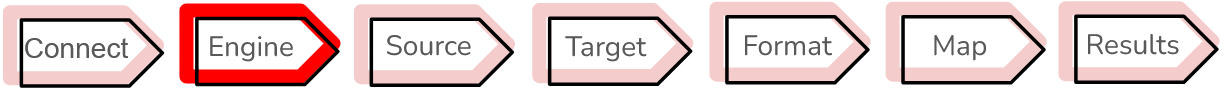
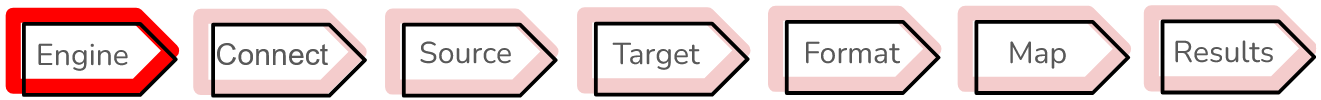
Bug bash changes

diff --git a/docs/Guides/loading-data/loading-data-wizard.md b/docs/Guides/loading-data/loading-data-wizard.md
@@ -22,28 +22,16 @@ A general workflow to load data using the **Load data** wizard is shown in the f
 The wizard also guides you through setting up an AWS connection. To use the wizard, you will need the uniform resource locator (URL) of an Amazon S3 bucket. If credentials are required to access the data that you want to load, you will also need an AWS Key ID and your AWS Secret Key. In most steps in the wizard, you can view the SQL commands associated with your selections in the **Load data** main window by selecting **Show SQL script** in the left navigation pane at the bottom of the window.
 
 To use the wizard, use the following steps:
-## Set up AWS connection
-<img src="../../assets/images/load_data_wizard_connect.png" alt="The first step in the wizard is to connect to AWS and specify an Amazon S3 bucket." width="700"/>
-<BR>
-1. Log into the **Firebolt Workspace**.
-2. Select the (+) icon from the left navigation pane next to **Databases**.
-3. Select **Load data** from the drop-down menu.
-4. Set up an AWS connection in the window that appears.
-    1. If you are using public data and no credentials are required to access it, provide the URL for your Amazon S3 bucket, and select **Next step**.
-    2. If credentials are required, Firebolt needs to provide this information to AWS in order to retrieve data on your behalf. Provide the URL for your Amazon S3 bucket, AWS Key ID, and AWS Secret Key. The following apply:
-        1. The AWS Key ID is an AWS access key that is associated with an AWS user or AWS IAM role. The AWS access key is a 20-character string such as ‘AKIAIOSFODNN7EXAMPLE’.
-        2. The AWS Secret Key is an AWS secret access key associated with the user or role associated with the AWS access key. The AWS secret access key is a 40-character string such as ‘wJalrXUtnFEMI/K7MDENG/bPxRfiCYEXAMPLEKEY’. For more information about these credentials, see [Create Access Key and Secret ID in AWS](creating-access-keys-aws.md).
-    3. If you aren’t ready to use your own data, you can use a Firebolt test dataset from the fictional company, [Ultra Fast Gaming Inc](https://help.firebolt.io/t/ultra-fast-gaming-firebolt-sample-dataset/250). Enter the following Amazon S3 bucket into Amazon S3 storage URL:
-`s3://firebolt-publishing-public/help_center_assets/firebolt_sample_dataset/`. The name of the data set is `levels.csv`.
-1. Select **Next step**.
    
 ## Select an engine
 <img src="../../assets/images/load_data_wizard_engine.png" alt="The next step in the wizard is to create an engine." width="700"/>
 <BR>
+
    Select an engine to load data. If the engine that you want to use already exists, select it from the dropdown list next to **Select engine for ingestion**. Otherwise, select **Create new engine** from the dropdown list, and do the following:
 
 1. Enter a name in the **New engine name** text box.
 2. Select an engine size from the drop-down list next to **Node type**. Consider the following when creating a new engine:
+
     1. If you are loading data and using Firebolt for the first time, use the smallest engine size (S) and a small dataset to try out Firebolt’s capabilities. Refer to the [Get Started](../getting-started.md) guide for more information.
     2. If you want to load larger datasets, and a S engine provides insufficient performance, Firebolt recommends **scaling out**, or adding more nodes, first, as shown in the following diagram.
     <BR>
@@ -53,12 +41,12 @@ To use the wizard, use the following steps:
 
     Small and medium engines are available for use right away. If you want to use a large or extra-large engine, reach out to support@firebolt.io. For more information, see [Sizing Engines](../../Guides/operate-engines/sizing-engines.md).
 
- 1. Select the number of compute nodes to use to load your data next to **Number of nodes**. A node is an individual compute unit within a compute cluster.
+ 3. Select the number of compute nodes to use to load your data next to **Number of nodes**. A node is an individual compute unit within a compute cluster.
 
    - Using more than one node allows Firebolt to load your data and perform operations on your data in parallel on multiple nodes within a single cluster, which can speed up the data loading process.
    - A higher number of nodes also means increased costs for compute resources. You can see the total cost per hour for your selection under Advanced settings, given in Firebolt Units (FBU). Each FBU is equivalent to $0.35 USD per hour. Find the right balance between cost and speed for your workload. You must use at least one node.
   
-2. Select the number of clusters next to **Number of clusters**. A cluster is a group of nodes that work together. The following apply:
+4. Select the number of clusters next to **Number of clusters**. A cluster is a group of nodes that work together. The following apply:
 
     - If you increase the number of clusters, you will add the number of compute nodes that you selected for each added cluster.
   
@@ -66,21 +54,42 @@ To use the wizard, use the following steps:
 
 3. Select the down arrow next to **Advanced settings** for more options for your engine including setting a time to stop the engine after a period of inactivity.
 
+
+## Set up AWS connection
+<img src="../../assets/images/load_data_wizard_connect.png" alt="The first step in the wizard is to connect to AWS and specify an Amazon S3 bucket." width="700"/>
+<BR>
+
+1. Log into the **Firebolt Workspace**.
+2. Select the (+) icon from the left navigation pane next to **Databases**.
+3. Select **Load data** from the drop-down menu.
+4. Set up an AWS connection in the window that appears.
+    1. If you are using public data and no credentials are required to access it, provide the URL for your Amazon S3 bucket, and select **Next step**.
+    2. If credentials are required, Firebolt needs to provide this information to AWS in order to retrieve data on your behalf. Provide the URL for your Amazon S3 bucket, AWS Key ID, and AWS Secret Key. The following apply:
+        1. The AWS Key ID is an AWS access key that is associated with an AWS user or AWS IAM role. The AWS access key is a 20-character string such as ‘AKIAIOSFODNN7EXAMPLE’.
+        2. The AWS Secret Key is an AWS secret access key associated with the user or role associated with the AWS access key. The AWS secret access key is a 40-character string such as ‘wJalrXUtnFEMI/K7MDENG/bPxRfiCYEXAMPLEKEY’. For more information about these credentials, see [Create Access Key and Secret ID in AWS](creating-access-keys-aws.md).
+    3. If you aren’t ready to use your own data, you can use a Firebolt test dataset from the fictional company, [Ultra Fast Gaming Inc](https://help.firebolt.io/t/ultra-fast-gaming-firebolt-sample-dataset/250). Enter the following Amazon S3 bucket into Amazon S3 storage URL:
+`s3://firebolt-publishing-public/help_center_assets/firebolt_sample_dataset/`. 
+5. Select **Next step**.
+
 ## Select data to ingest
 <img src="../../assets/images/load_data_wizard_source.png" alt="The next step in the wizard is to specify a data source." width="700"/>
 <BR>
+
 1. Select the data that you want to load. Firebolt’s **Load data** wizard currently supports files in both CSV and Parquet formats. The contents of your S3 bucket are shown automatically along with their object type, size, and when the object was last modified.
 2. Enter text or a [prefix](https://docs.aws.amazon.com/AmazonS3/latest/userguide/using-prefixes.html) into the search field above **FILE NAME** to filter the list of objects. You can enter either part of the object's name or the full prefix that it starts with.
-3. Toggle **Supported files** to filter the list to show only supported file formats. If you are using Firebolt’s test data set for this tutorial, select the box next to `levels.csv`.
-4. Select **Next step**.
+3. If you are using Firebolt's test data, select box next to `levels.csv`.
+3. Select **Next step**.
 
 ## Set up destination
 <img src="../../assets/images/load_data_wizard_target.png" alt="The next step in the wizard is to specify a data target." width="700"/>
 <BR>
 Specify the table inside a database that you want to load your data into.
+
 1. You can either select an existing database from the drop-down list next to **Select database** or **Create new database**.
+
     1. If you created a new database, enter a new database name and a new table to load your data into. Select **Next step**.
     2. If you selected an existing database, select the table in the database from the drop-down list next to **Select table**, or **Create new table** and provide a new table name.
+
 2. Select **Next step**.
 
 ## Format data
@@ -104,8 +113,10 @@ A default formatting and error handling scheme shows a preview of your data. You
 3. Select **Next step**.
    
 ## Map data
-<img src="../../assets/images/load_data_wizard_map.png" alt="The next step in the wizard is to map your data to your table." width="700"/>
+<img src="../../assets/images/load_data_wizard_map.png" alt="The next step in the wizard is to map your data to your table." width="700"/> <BR>
+
 Map the values in your data to columns into the target table. Firebolt automatically detects the schema of your data and displays information including the detected column names, type, and a preview of the data in the next window. By default, each column has a checkbox next to its name. Deselect the box if you don’t want to load the column. You can adjust the schema for the following items:
+
 1. Data type - you can change the [data type](../../sql_reference/data-types.md) of the column.
 2. **Nullable** - toggle this switch to `ON` if the columns in your data can contain `NULL` values. If this value is toggled off for a column, and that column contains `NULL` values, then the wizard will generate an error and stop loading.
 3. **Primary index** - toggle this switch to `ON` for the columns you want to include in your primary index.
@@ -140,6 +151,7 @@ After your load data job completes, you can view the results of each query that 
 
 3. View monitoring information including the percent CPU, memory, disk use and cache read in the **Engine monitoring** tab. Information is shown from the last 5 minutes by default. Select a different time interval from the drop-down menu next to **Last 5 minutes**. You can also select the **Refresh** icon next to the drop-down menu to update the graphical information.
 4. View detailed information associated with each query in the **Query history** tab. This information includes the query status, start time, number of rows and bytes scanned during the load, user and account information. You can do the following:
+
     1. Select the **Refresh** icon to update the query history and ID.
     2. Select the filter icon (<img src="../../assets/images/filter-icon.png" alt="filter icon" width="12"/>) to remove or add columns to display.
     3. Select the **More options** icon (<img src="../../assets/images/more options icon.png" alt="more options icon" width="12"/>) to export the contents of the Query history tab to a JSON or CSV file.
